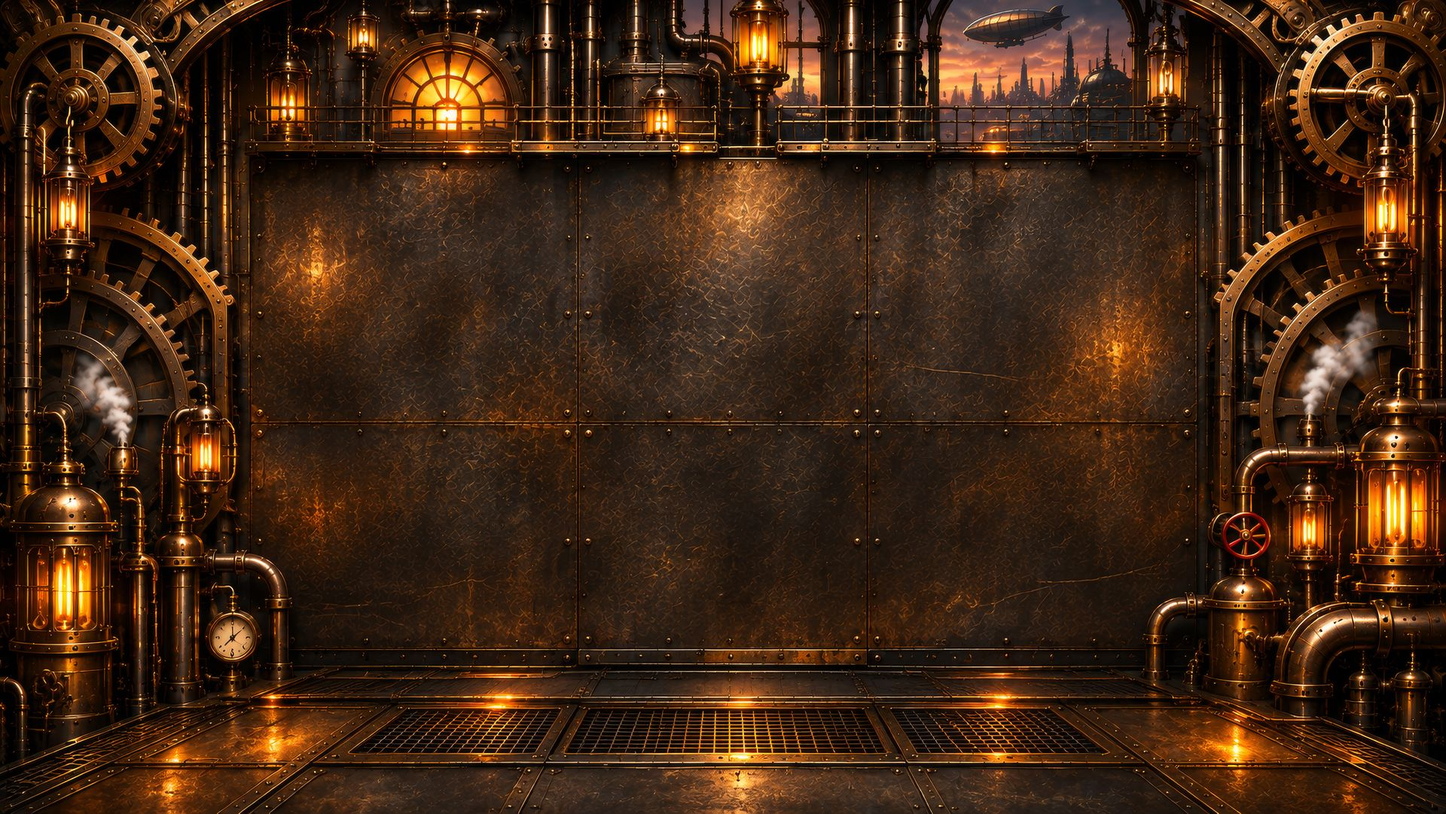
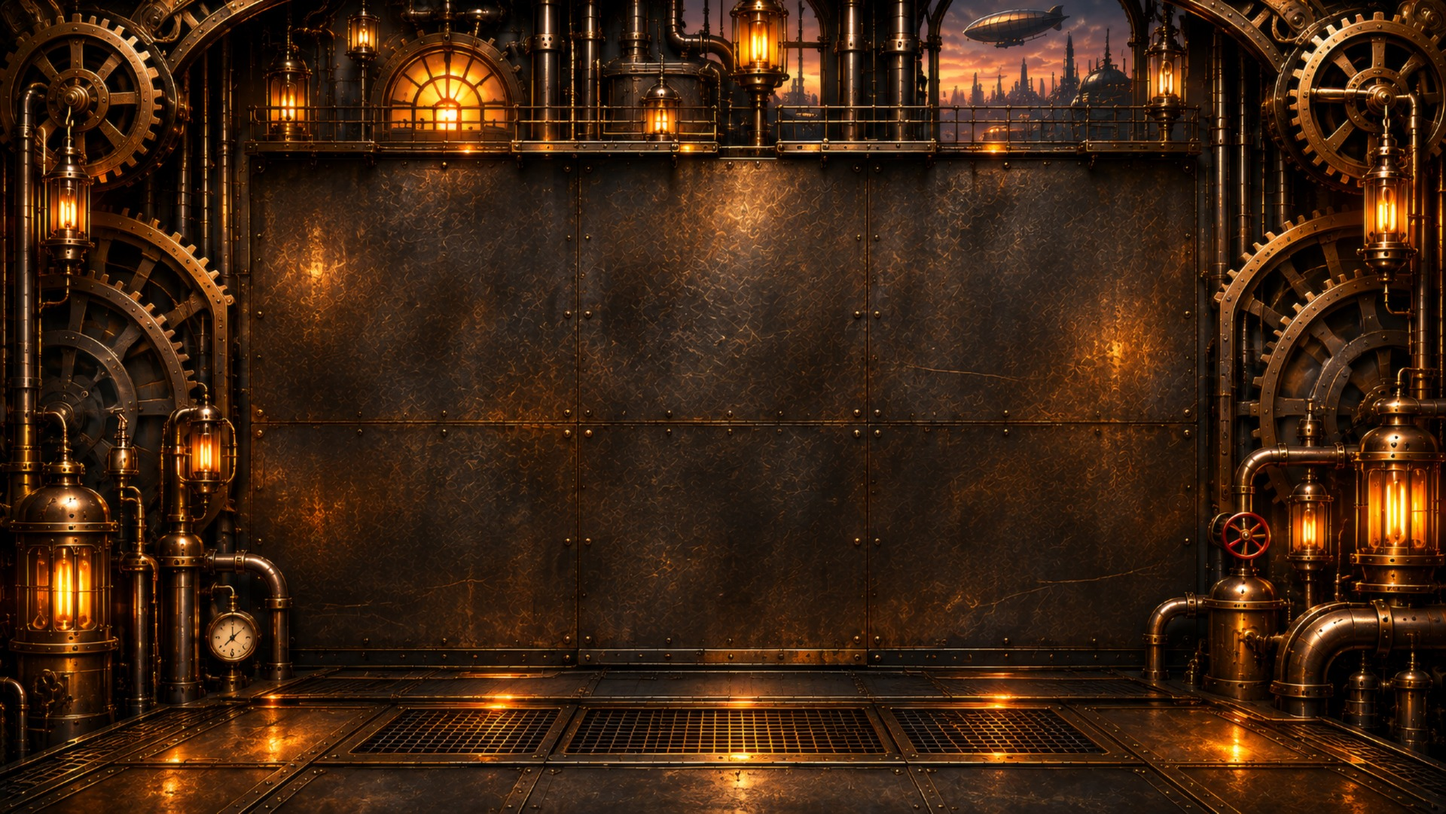
skin: arka plan dumansiz surumle degisti; resimdeki buhar fark alinarak ayrildi (sk-smoke-l/r) ve 3 ust uste binen yukselen kopya ile canlandirildi, CSS bulutlari kaldirildi

diff --git a/src/preload.js b/src/preload.js
@@ -1788,7 +1788,8 @@ if (isAutotunePage()) {
       sp.appendChild(mk('valve', 1618, 675, 72, 72));
       sp.appendChild(mk('gauge', 278, 817, 60, 60));
       const ndl = mk('needle', 307, 829, 2, 19); sp.appendChild(ndl); sp.appendChild(mk('hub', 305, 844, 6, 6));
-      for (let i = 0; i < 16; i += 1) sp.appendChild(mk('puff' + (i % 2 ? ' b' : ''), 1720 + (i % 3) * 2, 530, 40, 40, { animationDelay: (-i * 0.29 - Math.random() * 0.2) + 's', animationDuration: (4.2 + (i % 4) * 0.35) + 's' }));
+      // the painted steam itself (cut out by differencing the background against its smoke-free twin), looped as 3 overlapping rising copies per vent
+      for (const [cls, x, y, w, hh] of [['smoke r', 1707, 395, 142, 177], ['smoke l', 77, 452, 114, 160]]) for (let i = 0; i < 3; i += 1) sp.appendChild(mk(cls, x, y, w, hh, { animationDelay: (-i * 1.6) + 's' }));
       document.body.appendChild(box);
       const fit = () => { const vw = document.documentElement.clientWidth, vh = window.innerHeight; const sc = Math.max(vw / IW, vh / IH); sp.style.transform = 'translate(' + (vw - IW * sc) / 2 + 'px,' + (vh - IH * sc) / 2 + 'px) scale(' + sc + ')'; };
       fit(); window.addEventListener('resize', fit);
@@ -2727,6 +2728,11 @@ if (isAutotunePage()) {
         #poc-bgfx .hub { border-radius: 50%; background: radial-gradient(circle at 35% 35%, #f0c070, #6a4010); }
         #poc-bgfx .puff { border-radius: 50%; background: radial-gradient(circle, #f6f3eeee 0, #e2ddd6c0 30%, #cfc8c060 55%, transparent 72%); filter: blur(3px); opacity: 0; animation: poc-steam 4.4s cubic-bezier(.25,.6,.4,1) infinite; }
         #poc-bgfx .puff.b { animation-name: poc-steam2; }
+        #poc-bgfx .smoke { background: center / 100% 100% no-repeat; opacity: 0; animation: poc-smoke-r 4.8s linear infinite; }
+        #poc-bgfx .smoke.r { background-image: ${T('sk-smoke-r.png')}; transform-origin: 14% 96%; }
+        #poc-bgfx .smoke.l { background-image: ${T('sk-smoke-l.png')}; transform-origin: 86% 96%; animation-name: poc-smoke-l; }
+        @keyframes poc-smoke-r { 0% { opacity: 0; transform: translate(-4px, 26px) scale(.55, .45) skewX(0deg); } 12% { opacity: .95; } 45% { opacity: .9; transform: translate(4px, 4px) scale(.95, .92) skewX(-4deg); } 75% { opacity: .55; transform: translate(14px, -24px) scale(1.12, 1.15) skewX(3deg); } 100% { opacity: 0; transform: translate(26px, -52px) scale(1.3, 1.35) skewX(-2deg); } }
+        @keyframes poc-smoke-l { 0% { opacity: 0; transform: translate(4px, 24px) scale(.55, .45) skewX(0deg); } 12% { opacity: .95; } 45% { opacity: .9; transform: translate(-4px, 4px) scale(.95, .92) skewX(4deg); } 75% { opacity: .55; transform: translate(-14px, -22px) scale(1.12, 1.15) skewX(-3deg); } 100% { opacity: 0; transform: translate(-26px, -48px) scale(1.3, 1.35) skewX(2deg); } }
         @keyframes poc-steam { 0% { opacity: 0; transform: translate(0, 0) scale(.4); } 5% { opacity: .95; } 40% { opacity: .75; transform: translate(34px, -78px) scale(1.6); } 70% { opacity: .45; transform: translate(70px, -150px) scale(2.4); } 100% { opacity: 0; transform: translate(112px, -225px) scale(3.3); } }
         @keyframes poc-steam2 { 0% { opacity: 0; transform: translate(0, 0) scale(.35); } 5% { opacity: .9; } 40% { opacity: .7; transform: translate(52px, -66px) scale(1.5); } 70% { opacity: .4; transform: translate(84px, -140px) scale(2.2); } 100% { opacity: 0; transform: translate(130px, -205px) scale(3.1); } }
         #poc-brand { position: fixed; left: 112px; top: 30px; z-index: 2147483640; text-decoration: none; -webkit-app-region: no-drag; }
